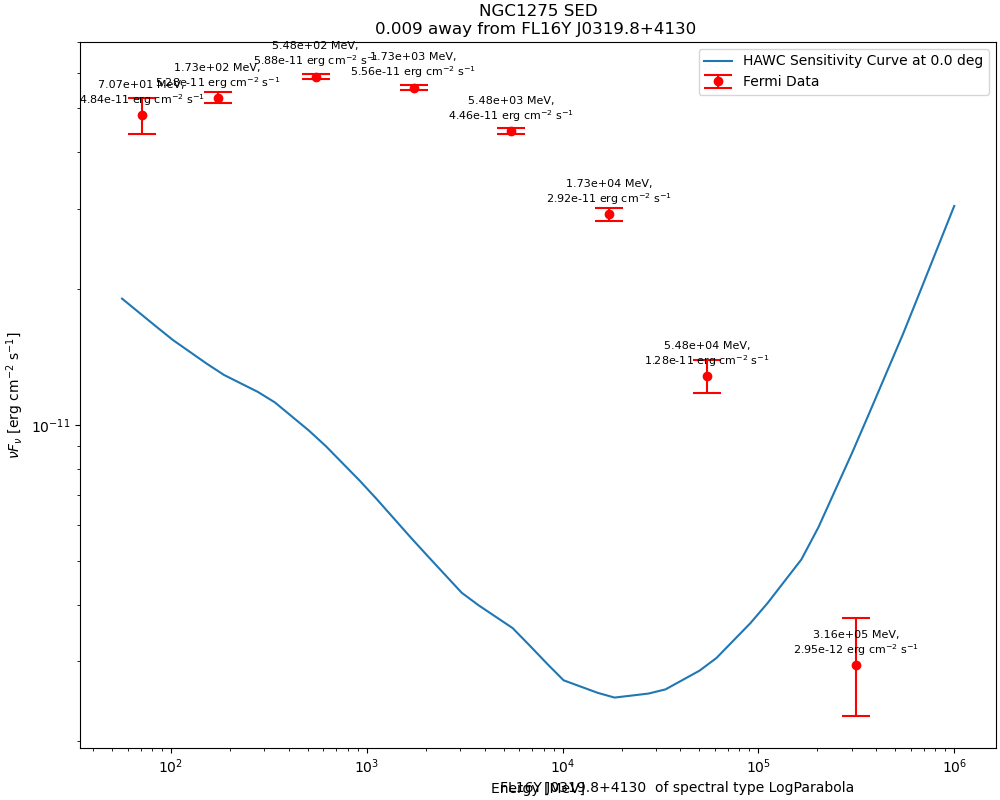
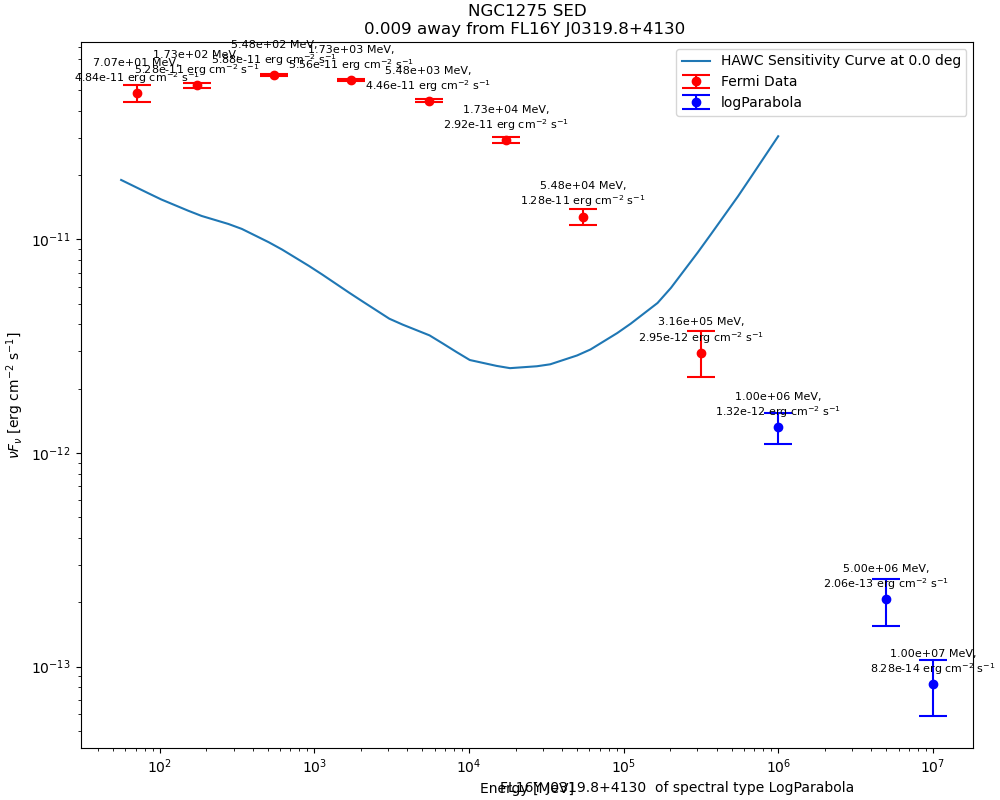
mm

diff --git a/fermi/sourcesfermi.py b/fermi/sourcesfermi.py
@@ -165,6 +165,7 @@ for i, s in enumerate(sourceName):
 
     sep_deg = sep2d[i].deg
     print(f"Closest source was {sep_deg:.3f} deg away")
+    print(repr(spectype[i]))
 
     if sep_deg < match_rad:
 
@@ -208,7 +209,8 @@ for i, s in enumerate(sourceName):
                 xy=(x, y), xytext=(0, 8),
                 textcoords='offset points',
                 fontsize=8, ha='center')
-        if spectype[i] == "PowerLaw": 
+
+        if spectype[i] == 'PowerLaw         ': 
             plt.errorbar(sy_en,nuFnu_PL,
                   yerr=nuFnu_PL_err, color='g',fmt='o',
                   capsize=10,capthick=1.5,elinewidth=1.5,
@@ -218,7 +220,8 @@ for i, s in enumerate(sourceName):
                   xy=(x, y), xytext=(0, 8),
                   textcoords='offset points',
                   fontsize=8, ha='center')
-        elif spectype[i] == "LogParabola":
+
+        elif spectype[i] == 'LogParabola      ':
             plt.errorbar(sy_en,nuFnu_LP,
                   yerr=nuFnu_LP_err,color='b',fmt='o',
                   capsize=10,capthick=1.5,elinewidth=1.5,
